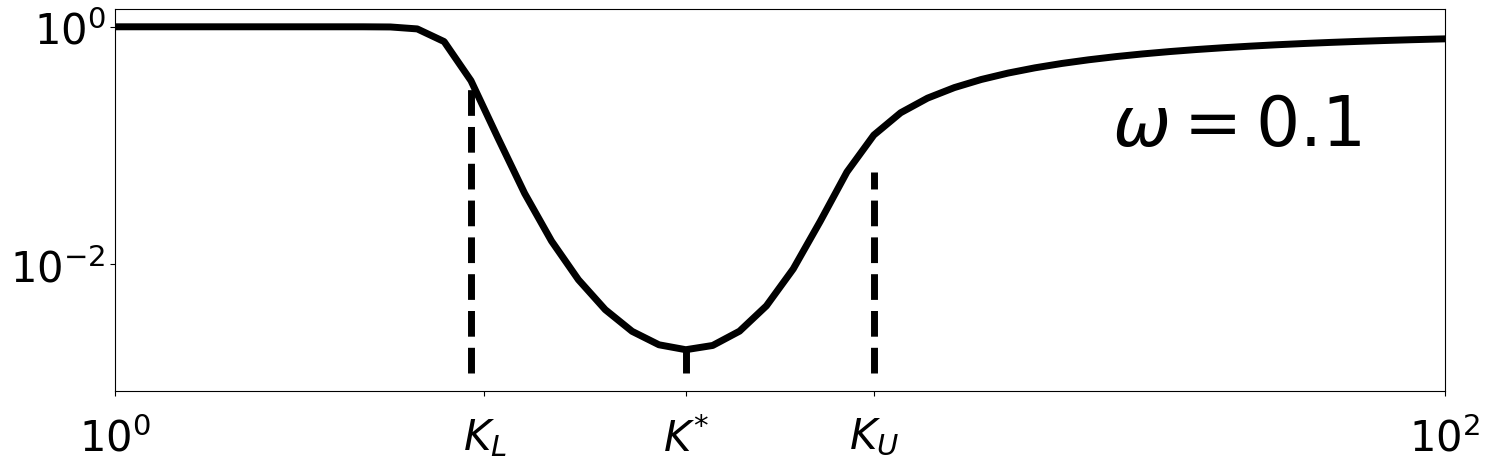
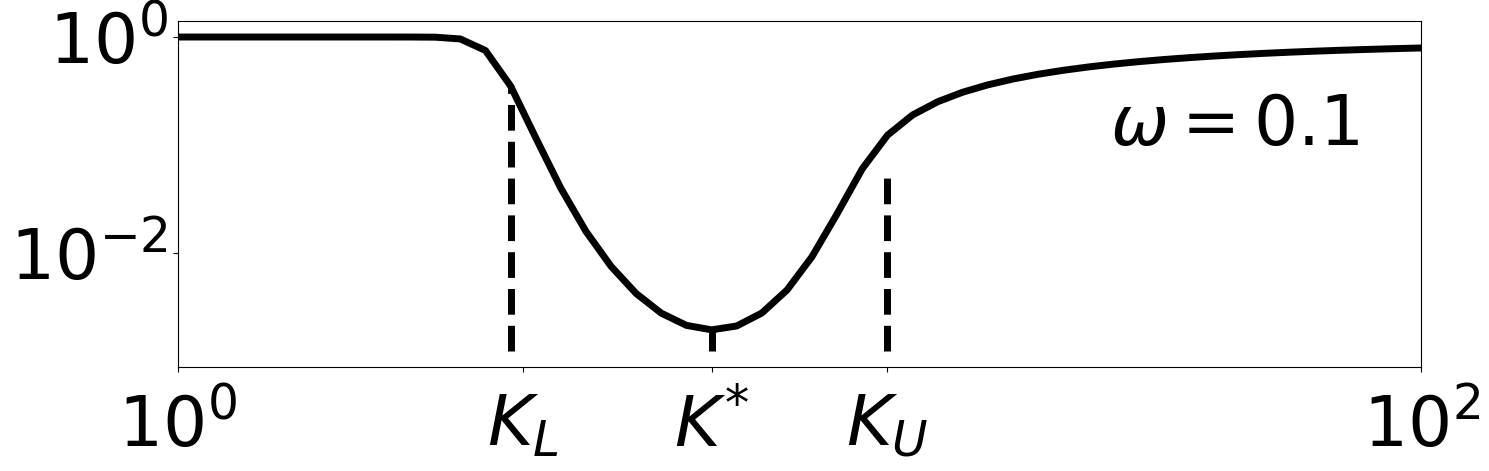
improve periodic figs

diff --git a/Simulations/Periodic/Global_Minimum/Plotting.py b/Simulations/Periodic/Global_Minimum/Plotting.py
@@ -278,8 +278,8 @@ ax = fig.add_subplot(111)
 plt.plot(np.log10(LList),np.log10(dRList/LList), '-k',linewidth=5)
 #Create the stretched version
 
-plt.xticks(fontsize=30,fontname = "Arial")
-plt.yticks(fontsize=30,fontname = "Arial")
+plt.xticks(fontsize=50,fontname = "Arial")
+plt.yticks(fontsize=50,fontname = "Arial")
 
 """
 #Highlight the linearity
